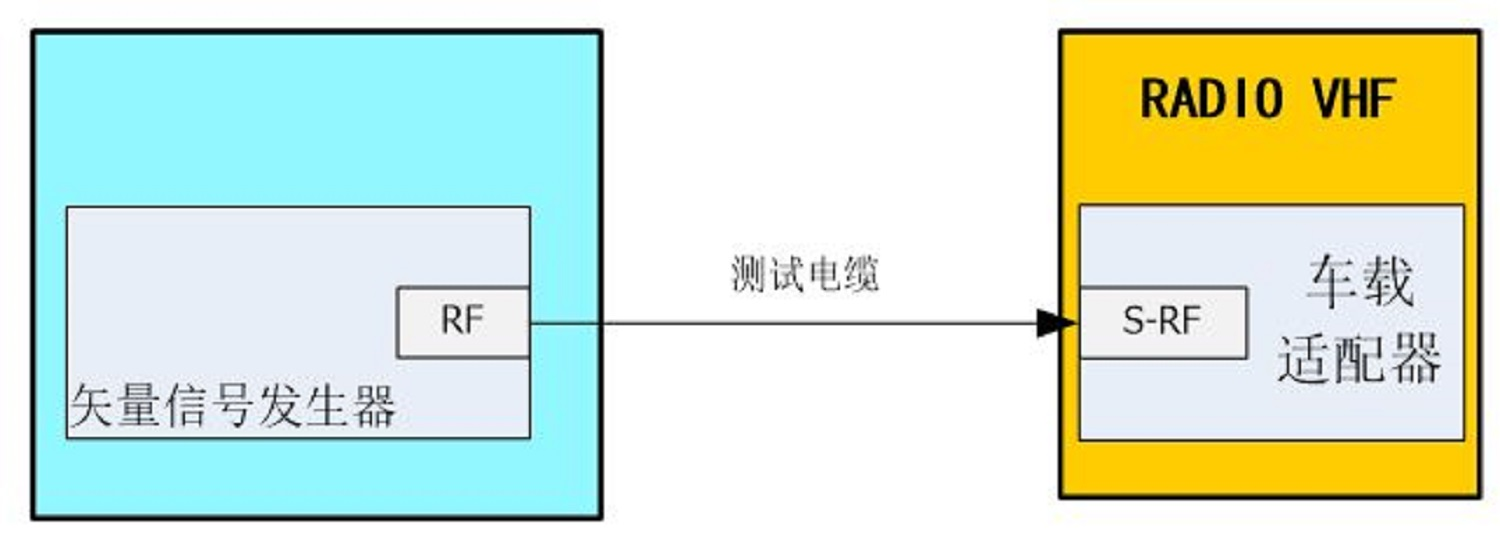
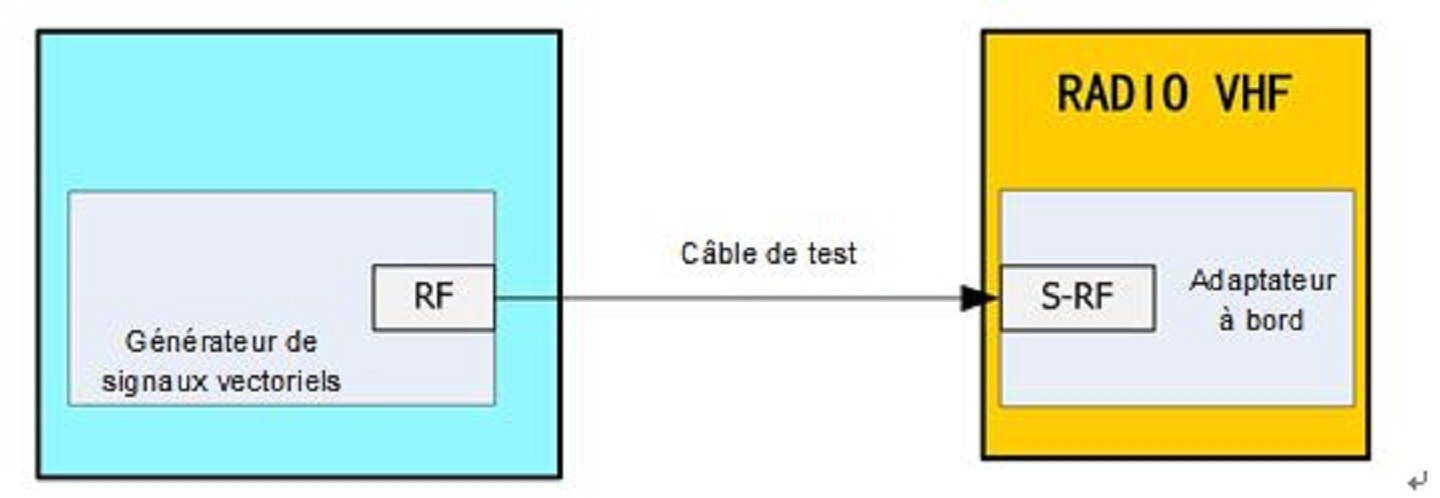
vhf图片做好

Changed region(s): [[0.0, 0.0301, 1.0, 0.994], [0.4688, 0.4518, 0.5938, 0.5422]]

diff --git a/modules/VHF_radio/Ui_VHF_radio_MAIN.py b/modules/VHF_radio/Ui_VHF_radio_MAIN.py
@@ -12,143 +12,6 @@ class Ui_Dialog(object):
         font.setFamily("Microsoft YaHei")
         font.setPointSize(14)
         Dialog.setFont(font)
-        Dialog.setStyleSheet("QDialog{\n"
-                             "background-color:#E3EAF4;\n"
-                             "margin-top:10px;\n"
-                             "}\n"
-                             "\n"
-                             "QTextBrower{\n"
-                             "background-color:#E3EAF4;\n"
-                             "border-width:0;border-style:outset\n"
-                             "}\n"
-                             "\n"
-                             "QLineEdit{\n"
-                             "background-color:#E3EAF4;\n"
-                             "}\n"
-                             "\n"
-                             "QWidget{\n"
-                             "background-color:#E3EAF4;\n"
-                             "}\n"
-                             "\n"
-                             "QStackedWidget{\n"
-                             "background-color:#E3EAF4;\n"
-                             "}\n"
-                             "\n"
-                             "QLabel{\n"
-                             "font-size:14px;\n"
-                             "font-family:Microsoft YaHei;\n"
-                             "background-color:#E3EAF4;\n"
-                             "}\n"
-                             "\n"
-                             "QGroupBox{\n"
-                             "font-size:14px;\n"
-                             "font-family:Microsoft YaHei;\n"
-                             "border:1px solid rgb(0, 0, 0);\n"
-                             "background-color:#E3EAF4;\n"
-                             "}\n"
-                             "\n"
-                             "\n"
-                             "QToolBar{\n"
-                             "background-color:#D5D5D5;\n"
-                             "height:30px;\n"
-                             "border:None;\n"
-                             "padding:1px;\n"
-                             "}\n"
-                             "/****QTreeWidget****/\n"
-                             "QTreeWidget{\n"
-                             "background-color:#E3EAF4;\n"
-                             "padding-top:20px;\n"
-                             "padding-left:10px;\n"
-                             "margin-top:20px;\n"
-                             "}\n"
-                             "QTreeView::item{\n"
-                             "font: 14px;\n"
-                             "}\n"
-                             "QTreeView::item:selected{\n"
-                             "selection-color: #1F95FF;\n"
-                             "}\n"
-                             "QTreeView::item:hover{\n"
-                             "background-color:#D0DAE5;\n"
-                             "}\n"
-                             "\n"
-                             "QTreeView::branch:has-children:!has-siblings:closed,\n"
-                             "QTreeView::branch:closed:has-children:has-siblings {\n"
-                             "border-image: none;\n"
-                             "image: url(imgs/common/plus.png);\n"
-                             "}\n"
-                             "\n"
-                             "QTreeView::branch:open:has-children:!has-siblings,\n"
-                             "QTreeView::branch:open:has-children:has-siblings  {\n"
-                             "border-image: none;\n"
-                             "image: url(imgs/common/Minus.png);\n"
-                             "}\n"
-                             "\n"
-                             "QTreeView::branch:!has-children:!has-siblings:adjoins-item {\n"
-                             "    border-image: url(imgs/common/end.png);\n"
-                             "}\n"
-                             "QTableWidget{\n"
-                             "outline: none;\n"
-                             "selection-color:#666666;\n"
-                             "alternate-background-color:#F9FAFC;\n"
-                             "}\n"
-                             "QTableCornerButton::section{\n"
-                             "background: #EDF2F8;\n"
-                             "}\n"
-                             "QTableWidget::item{\n"
-                             "font-size:14px;\n"
-                             "line-height:30px;\n"
-                             "border:1px solid #D2D2D2;\n"
-                             "}\n"
-                             "\n"
-                             "QTableWidget::item:hover{\n"
-                             "background-color:#EAF7FF;\n"
-                             "}\n"
-                             "QHeaderView::section:vertical {\n"
-                             "color: #666666;\n"
-                             "text-align:center;\n"
-                             "font: 14px Arial;\n"
-                             "border:1px solid #D2D2D2;\n"
-                             "background: #F9FBFD;\n"
-                             "width: 40px;\n"
-                             "height:30px;\n"
-                             "alternate-background-color:#F9FAFC;\n"
-                             "}\n"
-                             "QHeaderView::section:horizontal {\n"
-                             "color: #666666;\n"
-                             "font: 14px Microsoft YaHei;\n"
-                             "padding: 0px 1px 0 1px;\n"
-                             "text-align:center;\n"
-                             "border:1px solid #D2D2D2;\n"
-                             "background: #EDF2F8;\n"
-                             "height: 30px;\n"
-                             "alternate-background-color:#F9FAFC;\n"
-                             "}\n"
-                             "QScrollBar:vertical{\n"
-                             "border: 5px solid #D5D5D5;\n"
-                             "}\n"
-                             "/****QPushButton****/\n"
-                             "QPushButton{\n"
-                             "width:32px;\n"
-                             "height:32px;\n"
-                             "background-color:#D0DBE5;\n"
-                             "color: #FFFFFF;\n"
-                             "font-size:14px;\n"
-                             "font-family:Microsoft YaHei;\n"
-                             "}\n"
-                             "QPushButton:hover{\n"
-                             "background-color:#2784D6;\n"
-                             "cursor:pointer;\n"
-                             "}\n"
-                             "QPushButton:pressed{\n"
-                             "background-color:#2784D6;\n"
-                             "}\n"
-                             "QTreeWidget::indicator:checked {\n"
-                             "    image: url(imgs/common/checked.png);\n"
-                             "}\n"
-                             "QTreeWidget::indicator:unchecked {\n"
-                             "    image: url(imgs/common/check.png);\n"
-                             "}\n"
-                             "")
         self.gridLayout_11 = QtWidgets.QGridLayout(Dialog)
         self.gridLayout_11.setObjectName("gridLayout_11")
         self.gridLayout_10 = QtWidgets.QGridLayout()

diff --git a/modules/VHF_radio/VHF_radio_MAIN.py b/modules/VHF_radio/VHF_radio_MAIN.py
@@ -82,8 +82,6 @@ class VHFradioMain(QDialog, Ui_Dialog):
             SETUP_DIR, "conf", "system.json")
 
         self.test_config = TestModuleConfigNew(self.config_file_path)
-        self.pic_file_path = os.path.join(
-            SETUP_DIR, "imgs", "vhf_radio")
 
         self.system_config = SystemConfig(self.system_config_file_path)
         self.steps2Name = self.system_config.step2name
@@ -226,6 +224,8 @@ class VHFradioMain(QDialog, Ui_Dialog):
                         self.current_test_step_dialog = globals()[temp_test_process['module']]()
                         if temp_test_process['module']=='DialogTest1' or temp_test_process['module'] == "DialogTest7point1":
                             self.current_test_step_dialog.signalFinish1.connect(self.deal_signal_test_next1)
+                            print( os.path.join(
+                                    self.pic_file_path, temp_test_process['img']))
                             self.current_test_step_dialog.set_contents(temp_test_process['title'],
                                                                        temp_test_process['contents'], os.path.join(
                                     self.pic_file_path, temp_test_process['img']))

diff --git a/modules/VHF_radio/TEST1.py b/modules/VHF_radio/TEST1.py
@@ -26,7 +26,6 @@ class DialogTest1(QDialog, Ui_Dialog):
         self.action = 'finish_all'
 
     def set_contents(self, title, contents, img_file_path):
-
         try:
             self.setWindowTitle(title)
             self.textBrowser_contents.setText(contents)
@@ -40,6 +39,7 @@ class DialogTest1(QDialog, Ui_Dialog):
         except:
             pass
         return
+
 
     @pyqtSlot()
     def on_pushButton_next_clicked(self):

diff --git a/common/info.py b/common/info.py
@@ -28,7 +28,7 @@ class SystemLanguage:
     ZH_CN ="zh_CN"
     en_US = "en_US"
     fr_FR = "fr_FR"
-    LANGUAGE = ZH_CN
+    LANGUAGE = fr_FR
 
 
 class MainWindowConstants:
